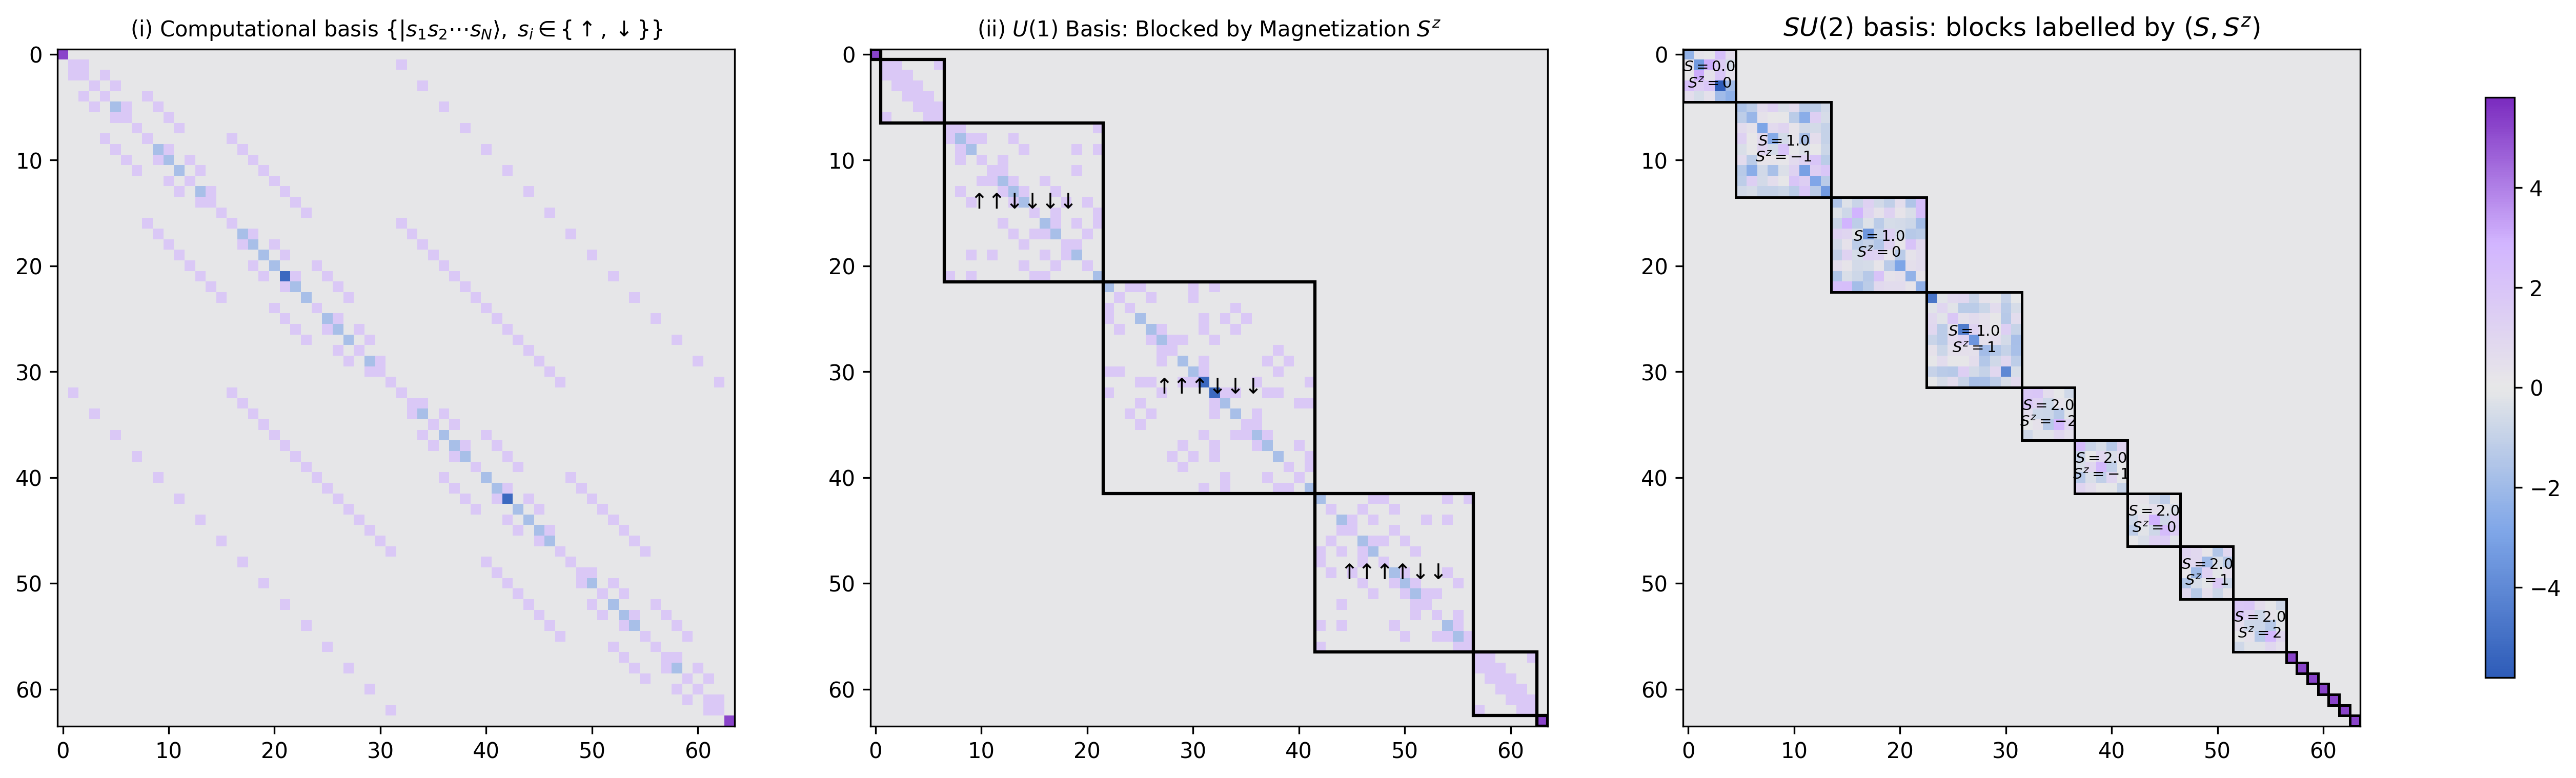
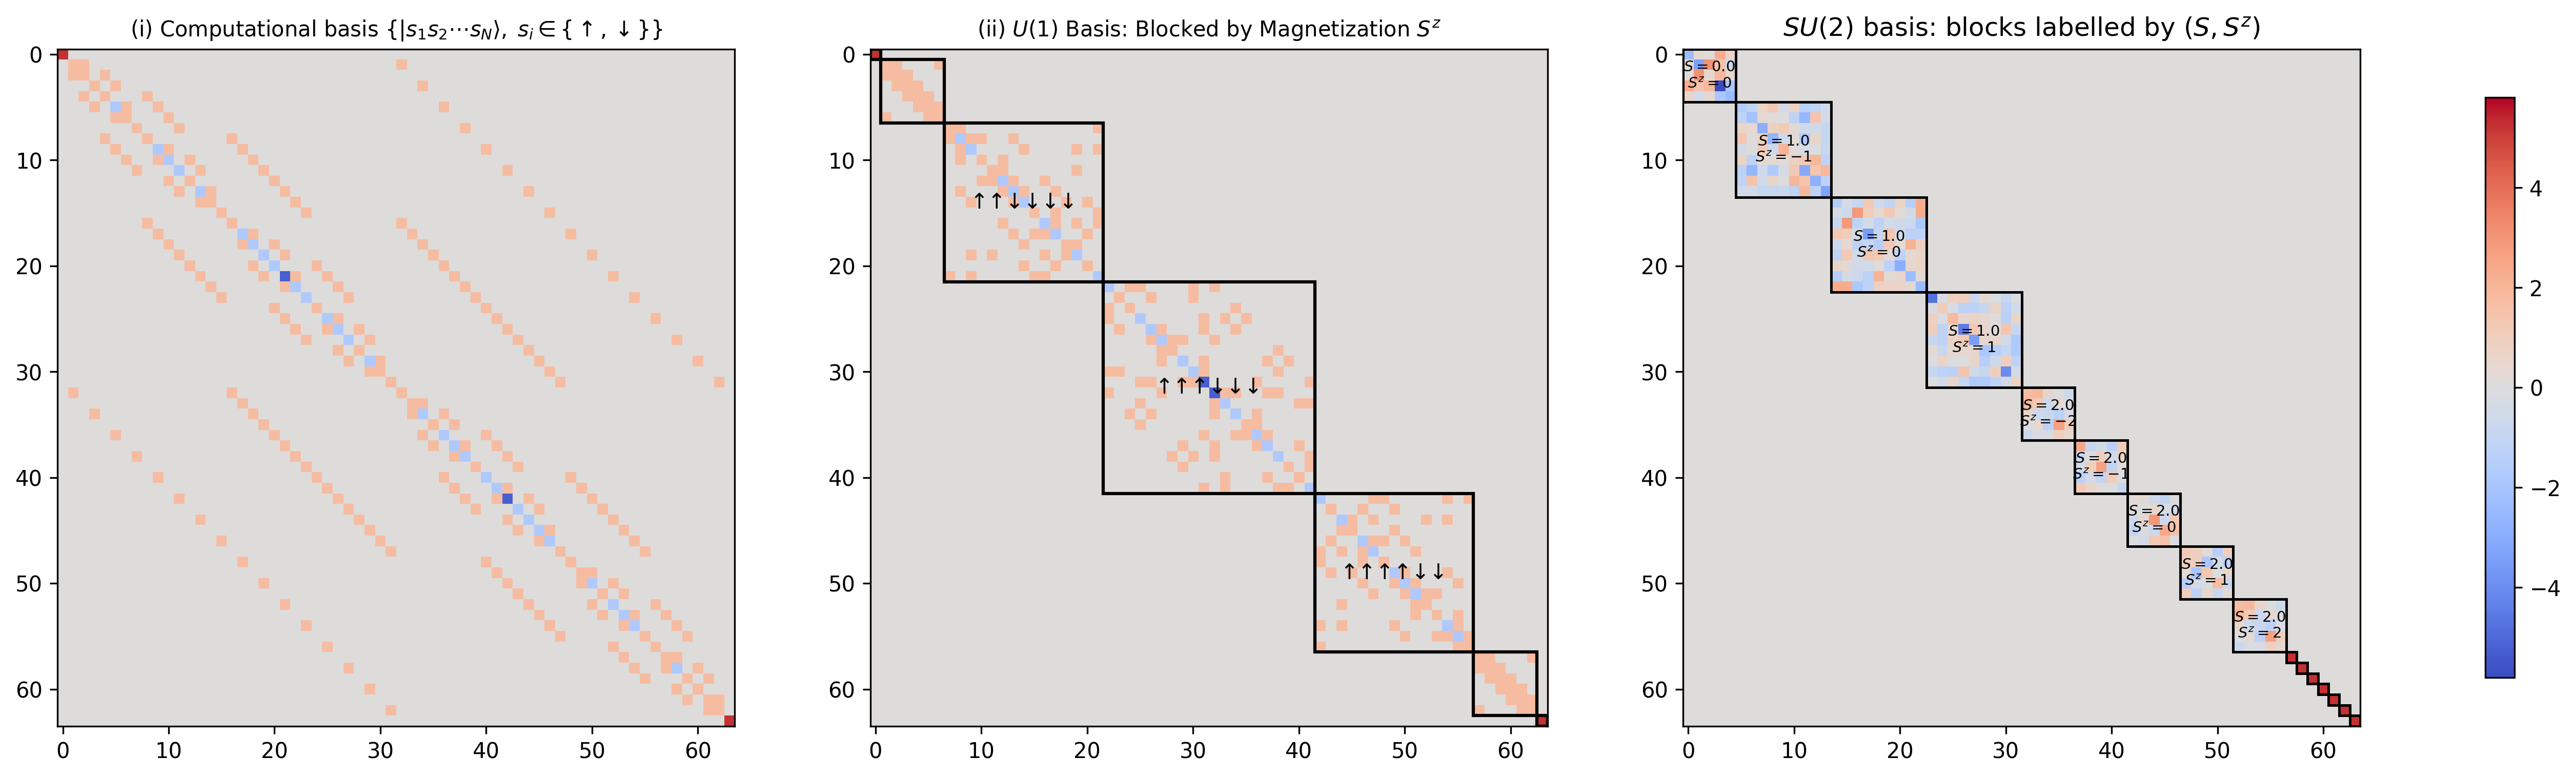
fear: SU(2) script with diagonalization

diff --git a/README.md b/README.md
@@ -1,6 +1,16 @@
 Maybe important for tex:
 https://tex.stackexchange.com/questions/300611/penrose-graphical-notation-with-tikz
 
+## July 15th
+
+Seems like the history of tensor networks come both from spin networks after penrose (why is there a 20 year gap of nothing?) and then the physical parts from dmrg after White et al. and MPS after who exactly? There should be some more care in these literature paragraphs. Should these go at the front? or chapterwise? But i will end up repeating a lot of information regardless. 
+
+Then, what theorems should be stated? Proofs can be referenced sure unless they are not given like the general decomposition theorem.
+
+What is a transparent fermion? 
+
+Also, ifnd the MO answer where XGW claims a fermions is not an anyon, because they dont arise from certain constructions (????).
+
 ## July 13th
 
 How do we make the difference between an mps and a spin chain apparent?